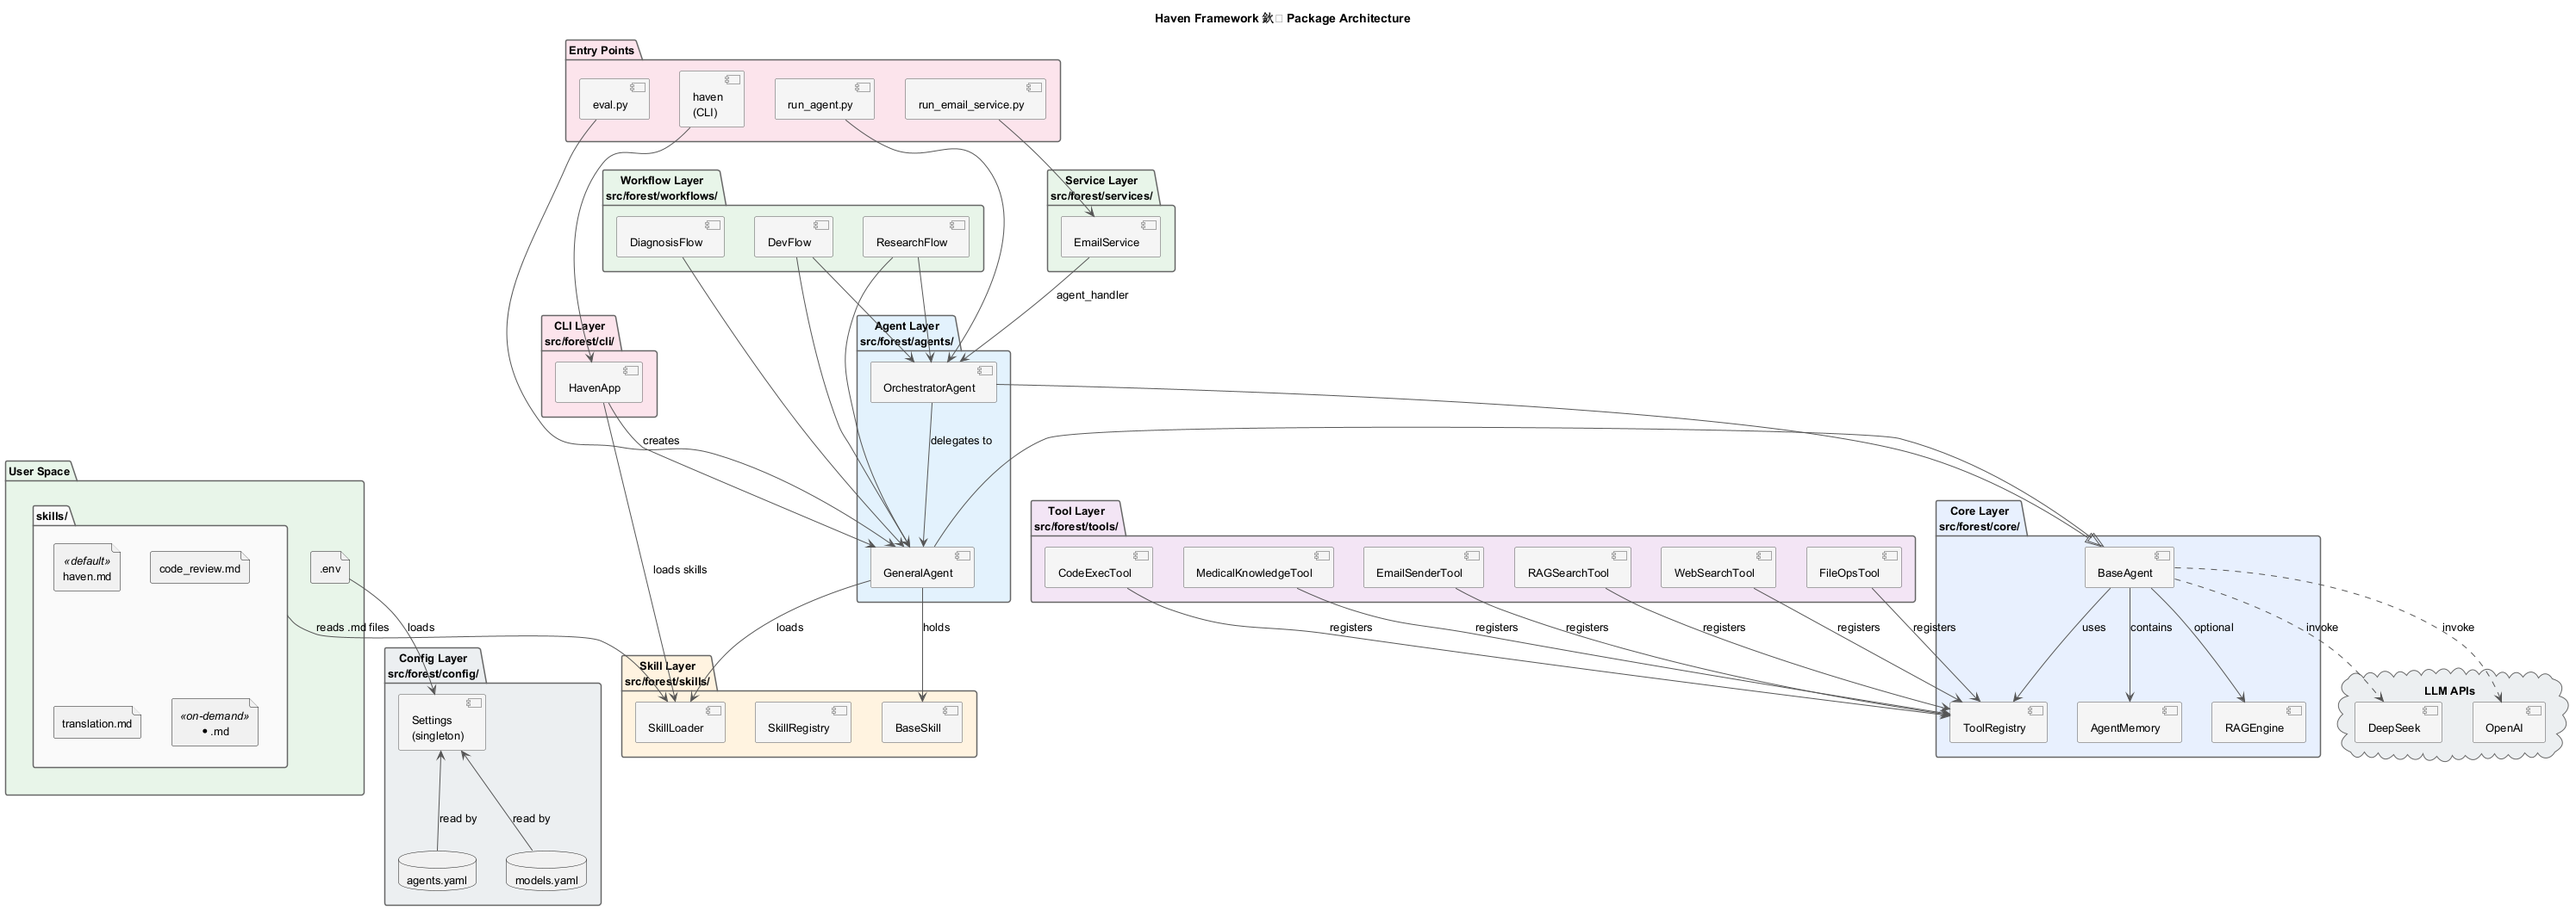
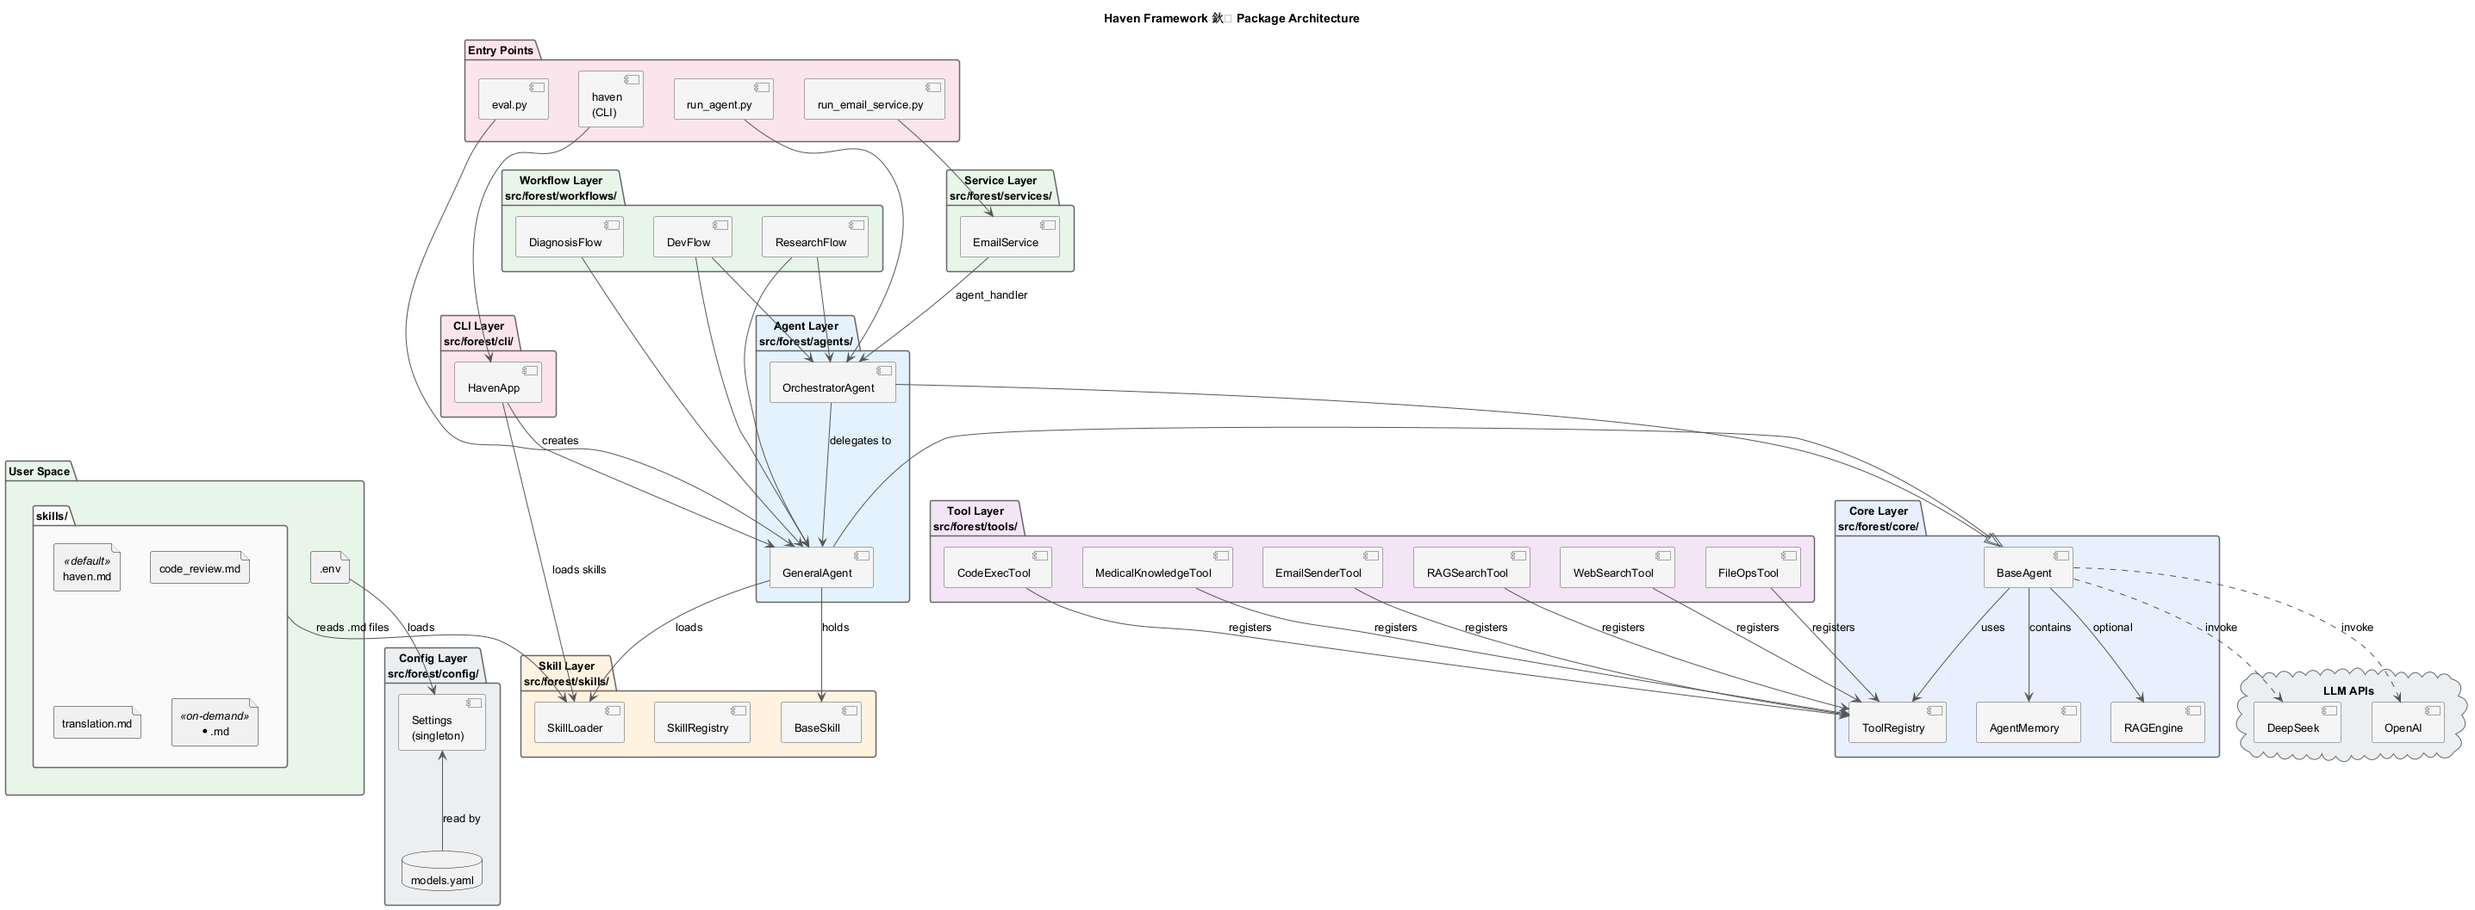
1. 重构个别代码，以及优化结构

diff --git a/src/forest/config/settings.py b/src/forest/config/settings.py
@@ -1,11 +1,15 @@
 from pathlib import Path
+
+from omegaconf import OmegaConf
 from pydantic import Field
 from pydantic_settings import BaseSettings, SettingsConfigDict
 
+_app_config = OmegaConf.to_container(OmegaConf.load(Path(__file__).parent / "app.yaml"), resolve=True)
+
+_env_file = Path(__file__).resolve().parent.parent.parent.parent / ".env"
+
 
 class Settings(BaseSettings):
-    _env_file = Path(__file__).resolve().parent.parent.parent.parent / ".env"
-
     model_config = SettingsConfigDict(
         env_file=str(_env_file),
         env_file_encoding="utf-8",
@@ -14,46 +18,46 @@ class Settings(BaseSettings):
 
     # ==================== API Keys ====================
     deepseek_api_key: str = Field(default="", alias="DEEPSEEK_API_KEY")
-    openai_api_key: str = Field(default="", alias="OPENAI_API_KEY")
+    # openai_api_key: str = Field(default="", alias="OPENAI_API_KEY")
 
-    # ==================== Agent Defaults ====================
-    agent_default_model: str = Field(default="deepseek-v4-pro", alias="AGENT_DEFAULT_MODEL")
-    agent_max_iterations: int = Field(default=20, alias="AGENT_MAX_ITERATIONS")
-    agent_max_execution_time: int = Field(default=300, alias="AGENT_MAX_EXECUTION_TIME")
+    # ==================== Agent ====================
+    agent_max_iterations: int = Field(default=_app_config["agent"]["max_iterations"], alias="AGENT_MAX_ITERATIONS")
+    agent_max_execution_time: int = Field(default=_app_config["agent"]["max_execution_time"],
+                                          alias="AGENT_MAX_EXECUTION_TIME")
 
-    # ==================== Tools - Web Search ====================
+    # ==================== Web Search ====================
     web_search_api_key: str = Field(default="", alias="WEB_SEARCH_API_KEY")
-    web_search_engine: str = Field(default="bing", alias="WEB_SEARCH_ENGINE")
+    web_search_engine: str = Field(default=_app_config["web_search"]["engine"], alias="WEB_SEARCH_ENGINE")
 
     # ==================== Email ====================
-    email_smtp_host: str = Field(default="smtp.qq.com", alias="EMAIL_SMTP_HOST")
-    email_smtp_port: int = Field(default=587, alias="EMAIL_SMTP_PORT")
+    email_smtp_host: str = Field(default=_app_config["email"]["smtp_host"], alias="EMAIL_SMTP_HOST")
+    email_smtp_port: int = Field(default=_app_config["email"]["smtp_port"], alias="EMAIL_SMTP_PORT")
     email_smtp_username: str = Field(default="", alias="EMAIL_SMTP_USERNAME")
     email_smtp_password: str = Field(default="", alias="EMAIL_SMTP_PASSWORD")
-    email_use_tls: bool = Field(default=True, alias="EMAIL_USE_TLS")
+    email_use_tls: bool = Field(default=_app_config["email"]["use_tls"], alias="EMAIL_USE_TLS")
 
-    email_imap_host: str = Field(default="imap.qq.com", alias="EMAIL_IMAP_HOST")
-    email_imap_port: int = Field(default=993, alias="EMAIL_IMAP_PORT")
+    email_imap_host: str = Field(default=_app_config["email"]["imap_host"], alias="EMAIL_IMAP_HOST")
+    email_imap_port: int = Field(default=_app_config["email"]["imap_port"], alias="EMAIL_IMAP_PORT")
     email_imap_username: str = Field(default="", alias="EMAIL_IMAP_USERNAME")
     email_imap_password: str = Field(default="", alias="EMAIL_IMAP_PASSWORD")
-    email_poll_interval: int = Field(default=60, alias="EMAIL_POLL_INTERVAL")
+    email_poll_interval: int = Field(default=_app_config["email"]["poll_interval"], alias="EMAIL_POLL_INTERVAL")
 
     email_user_whitelist: str = Field(default="", alias="EMAIL_USER_WHITELIST")
-    email_digest_time: str = Field(default="08:00", alias="EMAIL_DIGEST_TIME")
+    email_digest_time: str = Field(default=_app_config["email"]["digest_time"], alias="EMAIL_DIGEST_TIME")
 
     # ==================== RAG ====================
-    rag_embedding_model: str = Field(default="text-embedding-3-small", alias="RAG_EMBEDDING_MODEL")
-    rag_embedding_api_base: str = Field(default="https://api.openai.com/v1", alias="RAG_EMBEDDING_API_BASE")
-    rag_chunk_size: int = Field(default=1000, alias="RAG_CHUNK_SIZE")
-    rag_chunk_overlap: int = Field(default=200, alias="RAG_CHUNK_OVERLAP")
-    rag_top_k: int = Field(default=5, alias="RAG_TOP_K")
+    rag_embedding_model: str = Field(default=_app_config["rag"]["embedding_model"], alias="RAG_EMBEDDING_MODEL")
+    rag_embedding_api_base: str = Field(default=_app_config["rag"]["embedding_api_base"],
+                                        alias="RAG_EMBEDDING_API_BASE")
+    rag_chunk_size: int = Field(default=_app_config["rag"]["chunk_size"], alias="RAG_CHUNK_SIZE")
+    rag_chunk_overlap: int = Field(default=_app_config["rag"]["chunk_overlap"], alias="RAG_CHUNK_OVERLAP")
+    rag_top_k: int = Field(default=_app_config["rag"]["top_k"], alias="RAG_TOP_K")
 
     # ==================== Skills ====================
-    skill_directory: str = Field(default="skills", alias="SKILL_DIRECTORY")
+    skill_directory: str = Field(default=_app_config["skill"]["directory"], alias="SKILL_DIRECTORY")
 
     # ==================== Project ====================
     project_root: Path = Path(__file__).resolve().parent.parent.parent.parent
 
 
-# 实例化
 settings = Settings()

diff --git a/src/forest/core/base_agent.py b/src/forest/core/base_agent.py
@@ -4,8 +4,9 @@ from typing import Any, TYPE_CHECKING
 from langchain_core.language_models import BaseChatModel
 from langchain_core.messages import BaseMessage, HumanMessage, SystemMessage
 
-from forest.config import settings, get_model_config
+from forest.config import settings, get_model_config, get_default_model
 from forest.core.memory import AgentMemory
+from forest.skills.loader import SkillLoader
 
 if TYPE_CHECKING:
     from forest.core.rag import RAGEngine
@@ -23,10 +24,6 @@ class BaseAgent(ABC):
         self.max_iterations = settings.agent_max_iterations
         self.max_execution_time = settings.agent_max_execution_time
 
-        self._role: str = ""
-        self._goal: str = ""
-        self._backstory: str = ""
-
     def register_tool(self, name: str, tool: Any) -> None:
         self.tools[name] = tool
 
@@ -42,7 +39,6 @@ class BaseAgent(ABC):
 
         Returns the number of skills loaded.
         """
-        from forest.skills.loader import SkillLoader
 
         if directory is None:
             directory = str(settings.project_root / settings.skill_directory)
@@ -62,7 +58,7 @@ class BaseAgent(ABC):
         if self.llm is not None:
             return self.llm
 
-        model_name = model_name or settings.agent_default_model
+        model_name = model_name or get_default_model()
         cfg = get_model_config(model_name)
         provider = cfg["provider"]
 
@@ -90,13 +86,8 @@ class BaseAgent(ABC):
         return self.llm
 
     def _build_system_prompt(self) -> str:
-        parts = []
-        if self._role:
-            parts.append(f"你是 {self._role}。")
-        if self._goal:
-            parts.append(f"你的目标是：{self._goal}")
-        if self._backstory:
-            parts.append(f"背景：{self._backstory}")
+        """Assemble system prompt from default skills only."""
+        parts: list[str] = []
         for skill in self.skills.values():
             if skill.default and skill.prompt_extension:
                 parts.append(skill.prompt_extension)
@@ -113,8 +104,11 @@ class BaseAgent(ABC):
         return matched
 
     async def _invoke_llm(
-        self, task: str, system_prompt: str = "", use_rag: bool = True
-    ) -> str:
+            self,
+            task: str,
+            system_prompt: str = "",
+            use_rag: bool = True) -> str:
+
         if self.llm is None:
             self._init_llm()
 
@@ -139,18 +133,6 @@ class BaseAgent(ABC):
         response = await self.llm.ainvoke(messages)
         content = response.content if hasattr(response, "content") else str(response)
         return content
-
-    def _load_agent_config(self) -> None:
-        from forest.config import load_agents_config
-        agents_cfg = load_agents_config()
-        if self.name in agents_cfg:
-            agent_cfg = agents_cfg[self.name]
-            self._role = str(agent_cfg.get("role", ""))
-            self._goal = str(agent_cfg.get("goal", ""))
-            self._backstory = str(agent_cfg.get("backstory", ""))
-            model_name = str(agent_cfg.get("llm_model", ""))
-            if model_name and self.llm is None:
-                self._init_llm(model_name)
 
     @abstractmethod
     async def run(self, task: str, **kwargs: Any) -> str:

diff --git a/src/forest/config/loader.py b/src/forest/config/loader.py
@@ -5,28 +5,24 @@ from omegaconf import OmegaConf, DictConfig, ListConfig
 
 from .settings import settings
 
+_config: DictConfig | None = None
 
-def _init_resolvers() -> None:
-    OmegaConf.register_new_resolver(
-        "default_model",
-        lambda: settings.agent_default_model,
-        replace=True,
-    )
+
+def _load_config() -> DictConfig | None:
+    global _config
+    if _config is None:
+        config_path = Path(__file__).parent / "models.yaml"
+        _config = OmegaConf.load(config_path) | None
+        OmegaConf.resolve(_config)
+    return _config
+
+
+def get_default_model() -> str:
+    return str(_load_config().default_model)
 
 
 def load_models_config() -> DictConfig | ListConfig:
-    config_path = Path(__file__).parent / "models.yaml"
-    cfg = OmegaConf.load(config_path)
-    OmegaConf.resolve(cfg)
-    return cfg.models
-
-
-def load_agents_config() -> DictConfig | ListConfig:
-    _init_resolvers()
-    config_path = Path(__file__).parent / "agents.yaml"
-    cfg = OmegaConf.load(config_path)
-    OmegaConf.resolve(cfg)
-    return cfg.agents
+    return _load_config().models
 
 
 def get_model_config(model_name: str) -> dict[str, Any]:

diff --git a/src/forest/cli/app.py b/src/forest/cli/app.py
@@ -7,7 +7,7 @@ from typing import Any
 
 from langchain_core.messages import AIMessage, HumanMessage, SystemMessage
 
-from forest.config import settings
+from forest.config import settings, get_default_model
 from forest.core.base_agent import BaseAgent
 from forest.skills.loader import SkillLoader
 
@@ -164,7 +164,7 @@ class HavenApp:
             self._print("对话历史已清空。")
 
         elif cmd == "/model":
-            model_name = getattr(self.agent.llm, "model_name", None) or settings.agent_default_model
+            model_name = getattr(self.agent.llm, "model_name", None) or get_default_model()
             self._print(f"当前模型: {model_name}")
 
         else:
@@ -185,7 +185,7 @@ class HavenApp:
 
     def _print_banner(self) -> None:
         skill_count = len(self.agent.skills)
-        model = getattr(self.agent.llm, "model_name", None) or settings.agent_default_model
+        model = getattr(self.agent.llm, "model_name", None) or get_default_model()
         self._print(
             f"\n  Haven (健健) — 多智能体交互框架  v0.1.0\n"
             f"  模型: {model}  |  已加载 {skill_count} 个 skill\n"

diff --git a/src/forest/skills/registry.py b/src/forest/skills/registry.py
@@ -1,32 +1,5 @@
-from typing import Any
+from forest.core.registry import Registry
 
 
-class SkillRegistry:
-    """Decorator-based registry for skills (same pattern as ToolRegistry)."""
-
-    _skills: dict[str, Any] = {}
-
-    @classmethod
-    def register(cls, name: str = "") -> Any:
-        def decorator(skill_cls: Any) -> Any:
-            skill_name = name or skill_cls.__name__.lower()
-            cls._skills[skill_name] = skill_cls
-            return skill_cls
-
-        return decorator
-
-    @classmethod
-    def get(cls, name: str) -> Any:
-        if name not in cls._skills:
-            raise KeyError(
-                f"Skill '{name}' not found. Available: {list(cls._skills.keys())}"
-            )
-        return cls._skills[name]
-
-    @classmethod
-    def list_skills(cls) -> list[str]:
-        return list(cls._skills.keys())
-
-    @classmethod
-    def clear(cls) -> None:
-        cls._skills.clear()
+class SkillRegistry(Registry):
+    _label = "Skill"

diff --git a/src/forest/core/tool_registry.py b/src/forest/core/tool_registry.py
@@ -1,28 +1,5 @@
-from typing import Any
+from forest.core.registry import Registry
 
 
-class ToolRegistry:
-    _tools: dict[str, Any] = {}
-
-    @classmethod
-    def register(cls, name: str = "") -> Any:
-        def decorator(tool_cls: Any) -> Any:
-            tool_name = name or tool_cls.__name__.lower()
-            cls._tools[tool_name] = tool_cls
-            return tool_cls
-
-        return decorator
-
-    @classmethod
-    def get(cls, name: str) -> Any:
-        if name not in cls._tools:
-            raise KeyError(f"Tool '{name}' not found. Available: {list(cls._tools.keys())}")
-        return cls._tools[name]
-
-    @classmethod
-    def list_tools(cls) -> list[str]:
-        return list(cls._tools.keys())
-
-    @classmethod
-    def clear(cls) -> None:
-        cls._tools.clear()
+class ToolRegistry(Registry):
+    _label = "Tool"

diff --git a/src/forest/config/__init__.py b/src/forest/config/__init__.py
@@ -1,9 +1,4 @@
 from .settings import settings
-from .loader import load_agents_config, load_models_config, get_model_config
+from .loader import load_models_config, get_model_config, get_default_model
 
-__all__ = [
-    "settings",
-    "load_agents_config",
-    "load_models_config",
-    "get_model_config",
-]
+__all__ = ["settings", "load_models_config", "get_model_config", "get_default_model"]

diff --git a/src/forest/agents/general.py b/src/forest/agents/general.py
@@ -16,7 +16,6 @@ class GeneralAgent(BaseAgent):
 
     def __init__(self, name: str = "general", **kwargs: Any) -> None:
         super().__init__(name, **kwargs)
-        self._load_agent_config()
 
     async def run(self, task: str, **kwargs: Any) -> str:
         return await self._invoke_llm(task, system_prompt=kwargs.get("system_prompt", ""))

diff --git a/docs/architecture.md b/docs/architecture.md
@@ -19,8 +19,7 @@ haven/
 │   ├── config/                     # 配置层
 │   │   ├── settings.py             # Pydantic BaseSettings 单例
 │   │   ├── loader.py               # YAML 配置加载（OmegaConf）
-│   │   ├── models.yaml             # LLM 模型定义
-│   │   └── agents.yaml             # Agent 角色（general / orchestrator）
+│   │   └── models.yaml             # LLM 模型定义
 │   │
 │   ├── core/                       # 核心框架层
 │   │   ├── base_agent.py           # BaseAgent 抽象基类 + skill 集成
@@ -106,21 +105,7 @@ SKILL_DIRECTORY=skills          # .md skill 文件目录
 
 **`models.yaml`** — LLM 模型档：`deepseek-v4-pro`、`gpt-4o`、`gpt-4o-mini`。
 
-**`agents.yaml`** — 仅两个条目：
-
-```yaml
-agents:
-  general:        # 通用 agent — 能力由 skill 决定
-    role: "Haven Assistant"
-    goal: "帮助用户解决问题，根据加载的技能提供专业服务"
-    backstory: "灯塔的多功能助手，具备医疗、编程、研究、翻译等多种能力"
-
-  orchestrator:   # 编排 agent — 管理多个子 agent 协作
-    role: "Project Manager"
-    goal: "Coordinate agents to complete complex tasks efficiently"
-```
-
-**`loader.py`** — OmegaConf 加载 YAML，`get_model_config(name)` 将模型名解析为 `{provider, api_key, base_url, temperature, max_tokens}`。
+**`loader.py`** — OmegaConf 加载 `models.yaml`，`get_model_config(name)` 将模型名解析为 `{provider, api_key, base_url, temperature, max_tokens}`。
 
 ### 2. 核心框架层 `core/`
 
@@ -131,9 +116,8 @@ agents:
 | 方法 | 说明 |
 |------|------|
 | `_init_llm(model_name)` | 根据 provider 实例化 `ChatDeepSeek` 或 `ChatOpenAI` |
-| `_build_system_prompt()` | 组装 role + goal + backstory + **默认 skill 的 prompt** |
+| `_build_system_prompt()` | 组装默认 skill 的 prompt 为 system prompt |
 | `_invoke_llm(task, prompt, use_rag)` | 调用 LLM，可选 RAG 上下文注入 |
-| `_load_agent_config()` | 从 `agents.yaml` 加载角色定义 |
 | `enable_skill(skill)` | 加载一个 skill 实例 |
 | `load_skills_from_dir(dir)` | 扫描 `skills/*.md` 并自动注册 |
 | `match_skills(task)` | 返回匹配当前任务关键词的按需 skill |
@@ -188,7 +172,7 @@ match_skills(task)
 
 | Agent | 职责 |
 |-------|------|
-| `GeneralAgent` | 唯一通用 agent。角色从 `agents.yaml` 加载，人格由默认 skill 定义，领域能力由按需 skill 匹配 |
+| `GeneralAgent` | 唯一通用 agent。人格由默认 skill 定义，领域能力由按需 skill 匹配。无硬编码角色 |
 | `OrchestratorAgent` | 维护 `sub_agents` 字典，`run(task)` 广播给所有子 agent 并聚合结果 |
 
 ```python
